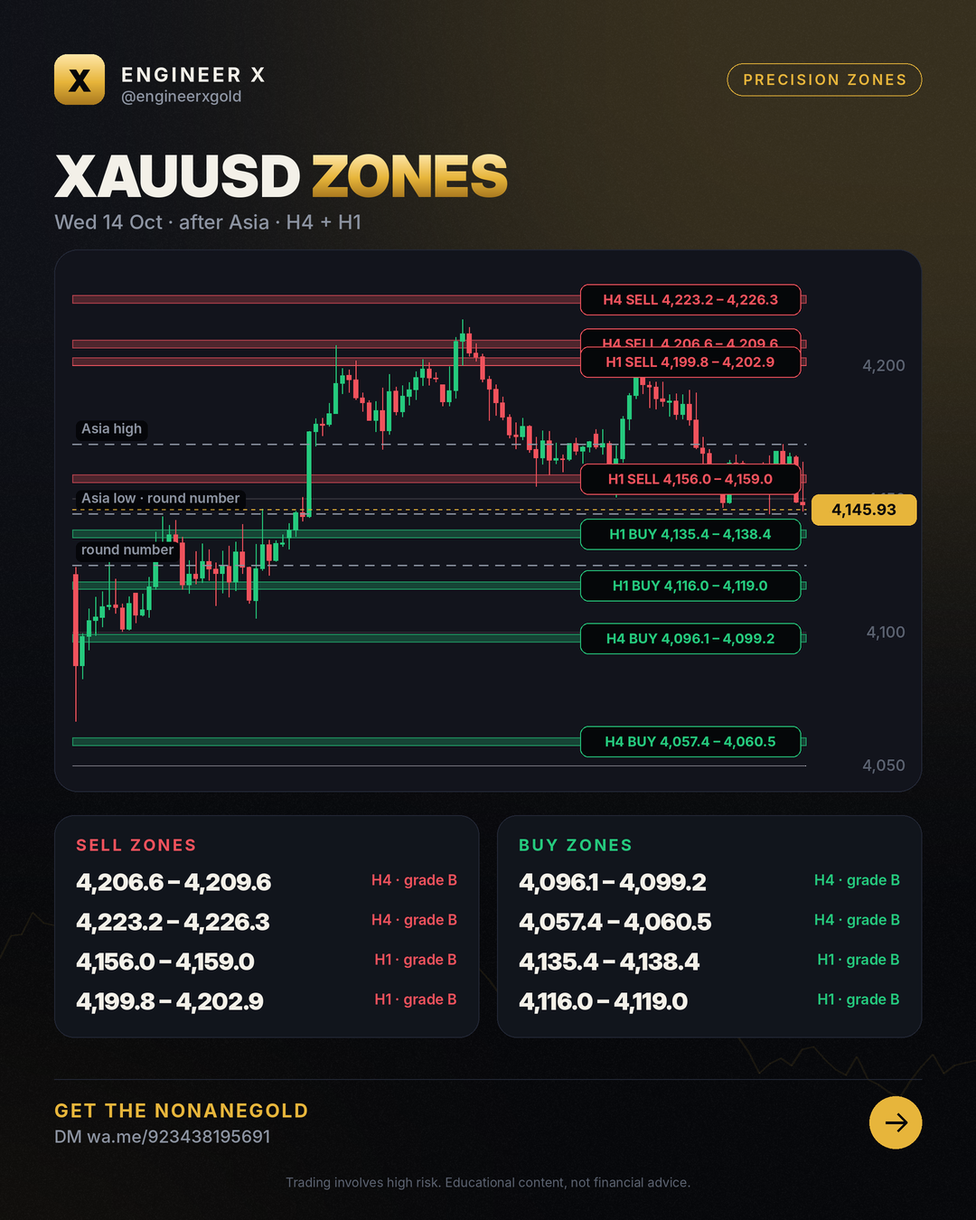
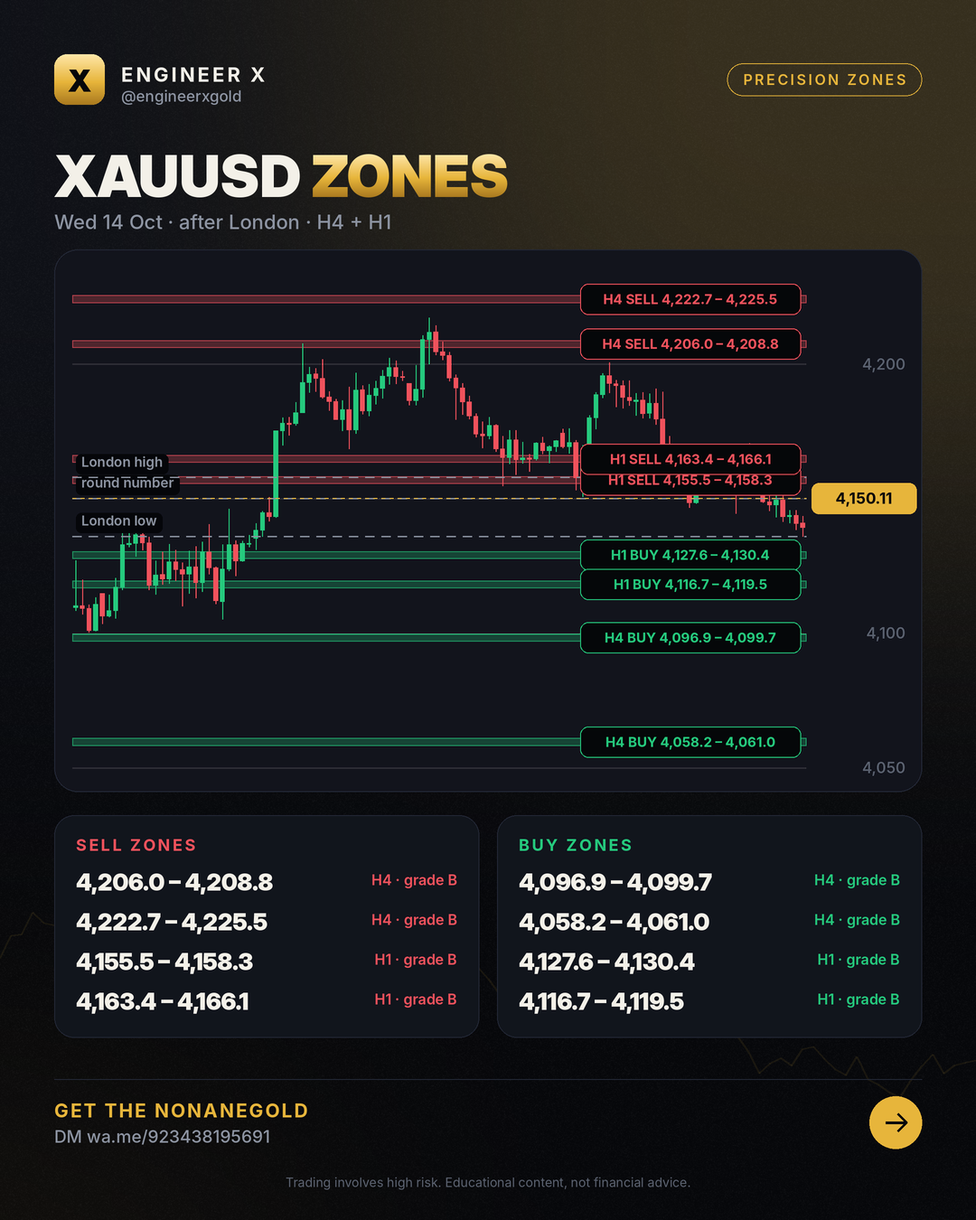
zones 2026-10-14 Wed 14 Oct · after London · H4 + H1

diff --git a/zones/2026-10-14/index.html b/zones/2026-10-14/index.html
@@ -4,7 +4,7 @@
 <meta charset="utf-8">
 <meta name="viewport" content="width=device-width,initial-scale=1">
 <title>Gold Price Today Israel – 14 Oct 2026 (H4 + H1)</title>
-<meta name="description" content="XAUUSD buy and sell zones for 2026-10-14: narrow H4 and H1 bands with invalidation levels, updated after the Asian, London and New York sessions. Price 4,145.93.">
+<meta name="description" content="XAUUSD buy and sell zones for 2026-10-14: narrow H4 and H1 bands with invalidation levels, updated after the Asian, London and New York sessions. Price 4,150.11.">
 <meta name="robots" content="index,follow,max-image-preview:large,max-snippet:-1,max-video-preview:-1">
 <meta name="author" content="Engr. M Ahmad Mehmood">
 <link rel="canonical" href="https://engineerxgold.github.io/zones/2026-10-14/">
@@ -12,7 +12,7 @@
 <link rel="apple-touch-icon" href="../../img/logo.png">
 <meta property="og:site_name" content="Engineer X">
 <meta property="og:title" content="Gold Price Today Israel – 14 Oct 2026 (H4 + H1)">
-<meta property="og:description" content="XAUUSD buy and sell zones for 2026-10-14: narrow H4 and H1 bands with invalidation levels, updated after the Asian, London and New York sessions. Price 4,145.93.">
+<meta property="og:description" content="XAUUSD buy and sell zones for 2026-10-14: narrow H4 and H1 bands with invalidation levels, updated after the Asian, London and New York sessions. Price 4,150.11.">
 <meta property="og:type" content="article">
 <meta property="og:url" content="https://engineerxgold.github.io/zones/2026-10-14/">
 <meta property="og:image" content="https://engineerxgold.github.io/zones/img/2026-10-14.png">
@@ -22,7 +22,7 @@
 <meta property="og:locale" content="en_US">
 <meta name="twitter:card" content="summary_large_image">
 <meta name="twitter:title" content="Gold Price Today Israel – 14 Oct 2026 (H4 + H1)">
-<meta name="twitter:description" content="XAUUSD buy and sell zones for 2026-10-14: narrow H4 and H1 bands with invalidation levels, updated after the Asian, London and New York sessions. Price 4,145.93.">
+<meta name="twitter:description" content="XAUUSD buy and sell zones for 2026-10-14: narrow H4 and H1 bands with invalidation levels, updated after the Asian, London and New York sessions. Price 4,150.11.">
 <meta name="twitter:image" content="https://engineerxgold.github.io/zones/img/2026-10-14.png">
 <meta name="twitter:image:alt" content="Gold Price Today Israel – 14 Oct 2026 (H4 + H1)">
 
@@ -32,7 +32,7 @@
 <link rel="preconnect" href="https://fonts.googleapis.com">
 <link rel="preconnect" href="https://fonts.gstatic.com" crossorigin>
 <link href="https://fonts.googleapis.com/css2?family=Inter:wght@400;500;600;800;900&display=swap" rel="stylesheet">
-<script type="application/ld+json">{"@context": "https://schema.org", "@type": "Organization", "@id": "https://engineerxgold.github.io/#organization", "name": "Engineer X", "url": "https://engineerxgold.github.io/", "logo": {"@type": "ImageObject", "url": "https://engineerxgold.github.io/img/logo.png", "width": 512, "height": 512}, "sameAs": ["https://t.me/engineerxgold"]}</script><script type="application/ld+json">{"@context": "https://schema.org", "@type": "Article", "headline": "Gold Price Today Israel – 14 Oct 2026 (H4 + H1)", "datePublished": "2026-10-14T08:00:00+05:00", "dateModified": "2026-10-14T12:02:42+05:00", "author": {"@type": "Person", "@id": "https://engineerxgold.github.io/about/#author", "name": "Engr. M Ahmad Mehmood", "url": "https://engineerxgold.github.io/about/", "jobTitle": "MQL5 Expert Advisor developer and gold market analyst", "worksFor": {"@id": "https://engineerxgold.github.io/#organization"}}, "publisher": {"@id": "https://engineerxgold.github.io/#organization"}, "image": "https://engineerxgold.github.io/zones/img/2026-10-14.png", "mainEntityOfPage": "https://engineerxgold.github.io/zones/2026-10-14/"}</script>
+<script type="application/ld+json">{"@context": "https://schema.org", "@type": "Organization", "@id": "https://engineerxgold.github.io/#organization", "name": "Engineer X", "url": "https://engineerxgold.github.io/", "logo": {"@type": "ImageObject", "url": "https://engineerxgold.github.io/img/logo.png", "width": 512, "height": 512}, "sameAs": ["https://t.me/engineerxgold"]}</script><script type="application/ld+json">{"@context": "https://schema.org", "@type": "Article", "headline": "Gold Price Today Israel – 14 Oct 2026 (H4 + H1)", "datePublished": "2026-10-14T08:00:00+05:00", "dateModified": "2026-10-14T17:28:14+05:00", "author": {"@type": "Person", "@id": "https://engineerxgold.github.io/about/#author", "name": "Engr. M Ahmad Mehmood", "url": "https://engineerxgold.github.io/about/", "jobTitle": "MQL5 Expert Advisor developer and gold market analyst", "worksFor": {"@id": "https://engineerxgold.github.io/#organization"}}, "publisher": {"@id": "https://engineerxgold.github.io/#organization"}, "image": "https://engineerxgold.github.io/zones/img/2026-10-14.png", "mainEntityOfPage": "https://engineerxgold.github.io/zones/2026-10-14/"}</script>
 
 <style>
 :root{--gold:#E7B53B;--gold-hi:#FFE7A8;--bg:#07080B;--bg2:#0E1016;--panel:#12151D;--line:#232836;--green:#25C97D;--red:#F0525C;--text:#F3F0E8;--muted:#8C93A1}
@@ -101,7 +101,7 @@ footer .fl a{color:var(--muted);margin-right:16px}
 <div class="wrap">
 <nav><a class="logo" href="../../"><b>X</b>Engineer X</a>
 <div class="links"><a href="../../zones/">Daily Zones</a><a href="../../blog/">Learn</a><a href="../../ea/">Gold EA</a><a href="../../about/">About</a><a class="cta" href="https://wa.me/923438195691">Get the EA</a></div></nav>
-<article><p class="crumbs"><a href="../../">Home</a> › <a href="../">Zones</a> › 2026-10-14</p><h1>Gold Price Today Israel – 14 Oct 2026 (H4 + H1)</h1><p class="byline">Wed 14 Oct · after Asia · H4 + H1 · by Engr. M Ahmad Mehmood</p><img src="../img/2026-10-14.png" alt="XAUUSD zone map 2026-10-14" width="1080" height="1350" loading="eager"><h2>Zones</h2><div style="overflow-x:auto"><table style="width:100%;border-collapse:collapse;font-size:15px"><tr><th align=left>Zone</th><th align=left>Price band</th><th>Grade</th><th align=left>Invalid</th><th align=left>Why</th></tr><tr><td>H4 sell</td><td><b>4,206.55 – 4,209.56</b></td><td>B</td><td>above 4,215.57</td><td>beyond H4 swing high + previous day high (stops rest there; sweeps often end here)</td></tr><tr><td>H4 sell</td><td><b>4,223.25 – 4,226.26</b></td><td>B</td><td>above 4,232.27</td><td>beyond H4 swing high (stops rest there; sweeps often end here)</td></tr><tr><td>H1 sell</td><td><b>4,156.02 – 4,159.03</b></td><td>B</td><td>above 4,165.04</td><td>beyond round number (stops rest there; sweeps often end here)</td></tr><tr><td>H1 sell</td><td><b>4,199.84 – 4,202.85</b></td><td>B</td><td>above 4,208.86</td><td>beyond yesterday&#x27;s London high + yesterday&#x27;s New York high (stops rest there; sweeps often end here)</td></tr><tr><td>H1 buy</td><td><b>4,135.35 – 4,138.36</b></td><td>B</td><td>below 4,129.34</td><td>beyond Asia low (stops rest there; sweeps often end here)</td></tr><tr><td>H1 buy</td><td><b>4,115.97 – 4,118.98</b></td><td>B</td><td>below 4,109.96</td><td>beyond round number (stops rest there; sweeps often end here)</td></tr><tr><td>H4 buy</td><td><b>4,096.15 – 4,099.16</b></td><td>B</td><td>below 4,090.14</td><td>beyond H4 swing low (stops rest there; sweeps often end here)</td></tr><tr><td>H4 buy</td><td><b>4,057.45 – 4,060.46</b></td><td>B</td><td>below 4,051.44</td><td>beyond H4 swing low (stops rest there; sweeps often end here)</td></tr></table></div><h2>How to read this map</h2><p>Bands are where price is expected to react; they are not entries. An hourly close beyond the invalidation price ends the zone. Obvious highs and lows (listed as liquidity) are often swept first, so our zones sit just beyond them.</p><div class="ctabox"><h3>🤖 Trade the zones with the NonaneGold</h3><p>Free signals group access + setup help Message us and we will help you set it up.</p><div class="btns"><a class="btn gold" href="https://wa.me/923438195691">Get the EA on Telegram</a><a class="btn ghost" href="../../ea/">About the EA</a></div></div></article>
+<article><p class="crumbs"><a href="../../">Home</a> › <a href="../">Zones</a> › 2026-10-14</p><h1>Gold Price Today Israel – 14 Oct 2026 (H4 + H1)</h1><p class="byline">Wed 14 Oct · after London · H4 + H1 · by Engr. M Ahmad Mehmood</p><img src="../img/2026-10-14.png" alt="XAUUSD zone map 2026-10-14" width="1080" height="1350" loading="eager"><h2>Zones</h2><div style="overflow-x:auto"><table style="width:100%;border-collapse:collapse;font-size:15px"><tr><th align=left>Zone</th><th align=left>Price band</th><th>Grade</th><th align=left>Invalid</th><th align=left>Why</th></tr><tr><td>H4 sell</td><td><b>4,206.04 – 4,208.79</b></td><td>B</td><td>above 4,214.30</td><td>beyond H4 swing high + previous day high (stops rest there; sweeps often end here)</td></tr><tr><td>H4 sell</td><td><b>4,222.74 – 4,225.49</b></td><td>B</td><td>above 4,231.00</td><td>beyond H4 swing high (stops rest there; sweeps often end here)</td></tr><tr><td>H1 sell</td><td><b>4,155.51 – 4,158.26</b></td><td>B</td><td>above 4,163.77</td><td>beyond round number (stops rest there; sweeps often end here)</td></tr><tr><td>H1 sell</td><td><b>4,163.35 – 4,166.10</b></td><td>B</td><td>above 4,171.61</td><td>beyond London high (stops rest there; sweeps often end here)</td></tr><tr><td>H1 buy</td><td><b>4,127.65 – 4,130.40</b></td><td>B</td><td>below 4,122.14</td><td>beyond London low (stops rest there; sweeps often end here)</td></tr><tr><td>H1 buy</td><td><b>4,116.74 – 4,119.49</b></td><td>B</td><td>below 4,111.23</td><td>beyond round number (stops rest there; sweeps often end here)</td></tr><tr><td>H4 buy</td><td><b>4,096.92 – 4,099.67</b></td><td>B</td><td>below 4,091.41</td><td>beyond H4 swing low (stops rest there; sweeps often end here)</td></tr><tr><td>H4 buy</td><td><b>4,058.22 – 4,060.97</b></td><td>B</td><td>below 4,052.71</td><td>beyond H4 swing low (stops rest there; sweeps often end here)</td></tr></table></div><h2>How to read this map</h2><p>Bands are where price is expected to react; they are not entries. An hourly close beyond the invalidation price ends the zone. Obvious highs and lows (listed as liquidity) are often swept first, so our zones sit just beyond them.</p><div class="ctabox"><h3>🤖 Trade the zones with the NonaneGold</h3><p>Free signals group access + setup help Message us and we will help you set it up.</p><div class="btns"><a class="btn gold" href="https://wa.me/923438195691">Get the EA on Telegram</a><a class="btn ghost" href="../../ea/">About the EA</a></div></div></article>
 <footer>
 <div class="warn"><b>Risk warning:</b> Trading gold, forex and CFDs carries a high risk of losing money and is not suitable for everyone. Past results do not guarantee future results. Everything on this site is educational and not financial advice. We are an introducing partner of our broker and may earn a commission on accounts opened through our link.</div>
 <p class="fl" style="margin-top:18px"><a href="../../about/">About &amp; methodology</a><a href="../../privacy.html">Privacy</a><a href="../../terms.html">Terms &amp; risk disclosure</a><a href="../../feed.xml">RSS</a><a href="https://t.me/engineerxgold">Telegram</a></p>

diff --git a/zones/index.html b/zones/index.html
@@ -4,7 +4,7 @@
 <meta charset="utf-8">
 <meta name="viewport" content="width=device-width,initial-scale=1">
 <title>XAUUSD Zones Today – Buy &amp; Sell Zones (H4, H1) | Engineer X</title>
-<meta name="description" content="XAUUSD buy and sell zones for 2026-10-14: narrow H4 and H1 bands with invalidation levels, updated after the Asian, London and New York sessions. Price 4,145.93.">
+<meta name="description" content="XAUUSD buy and sell zones for 2026-10-14: narrow H4 and H1 bands with invalidation levels, updated after the Asian, London and New York sessions. Price 4,150.11.">
 <meta name="robots" content="index,follow,max-image-preview:large,max-snippet:-1,max-video-preview:-1">
 <meta name="author" content="Engr. M Ahmad Mehmood">
 <link rel="canonical" href="https://engineerxgold.github.io/zones/">
@@ -12,7 +12,7 @@
 <link rel="apple-touch-icon" href="../img/logo.png">
 <meta property="og:site_name" content="Engineer X">
 <meta property="og:title" content="XAUUSD Zones Today – Buy &amp; Sell Zones (H4, H1) | Engineer X">
-<meta property="og:description" content="XAUUSD buy and sell zones for 2026-10-14: narrow H4 and H1 bands with invalidation levels, updated after the Asian, London and New York sessions. Price 4,145.93.">
+<meta property="og:description" content="XAUUSD buy and sell zones for 2026-10-14: narrow H4 and H1 bands with invalidation levels, updated after the Asian, London and New York sessions. Price 4,150.11.">
 <meta property="og:type" content="website">
 <meta property="og:url" content="https://engineerxgold.github.io/zones/">
 <meta property="og:image" content="https://engineerxgold.github.io/zones/img/2026-10-14.png">
@@ -22,7 +22,7 @@
 <meta property="og:locale" content="en_US">
 <meta name="twitter:card" content="summary_large_image">
 <meta name="twitter:title" content="XAUUSD Zones Today – Buy &amp; Sell Zones (H4, H1) | Engineer X">
-<meta name="twitter:description" content="XAUUSD buy and sell zones for 2026-10-14: narrow H4 and H1 bands with invalidation levels, updated after the Asian, London and New York sessions. Price 4,145.93.">
+<meta name="twitter:description" content="XAUUSD buy and sell zones for 2026-10-14: narrow H4 and H1 bands with invalidation levels, updated after the Asian, London and New York sessions. Price 4,150.11.">
 <meta name="twitter:image" content="https://engineerxgold.github.io/zones/img/2026-10-14.png">
 <meta name="twitter:image:alt" content="XAUUSD Zones Today – Buy &amp; Sell Zones (H4, H1) | Engineer X">
 
@@ -101,7 +101,7 @@ footer .fl a{color:var(--muted);margin-right:16px}
 <div class="wrap">
 <nav><a class="logo" href="../"><b>X</b>Engineer X</a>
 <div class="links"><a href="../zones/">Daily Zones</a><a href="../blog/">Learn</a><a href="../ea/">Gold EA</a><a href="../about/">About</a><a class="cta" href="https://wa.me/923438195691">Get the EA</a></div></nav>
-<section class="hero"><span class="chip">Updated Wed 14 Oct · after Asia · H4 + H1</span><h1>XAUUSD <span class="gold">precision zones</span></h1><p>XAUUSD buy and sell zones for 2026-10-14: narrow H4 and H1 bands with invalidation levels, updated after the Asian, London and New York sessions. Price 4,145.93.</p></section><img src="img/2026-10-14.png" alt="Latest XAUUSD zone map" width="1080" height="1350"><section><h2>Current zones</h2><div style="overflow-x:auto"><table style="width:100%;border-collapse:collapse;font-size:15px"><tr><th align=left>Zone</th><th align=left>Price band</th><th>Grade</th><th align=left>Invalid</th><th align=left>Why</th></tr><tr><td>H4 sell</td><td><b>4,206.55 – 4,209.56</b></td><td>B</td><td>above 4,215.57</td><td>beyond H4 swing high + previous day high (stops rest there; sweeps often end here)</td></tr><tr><td>H4 sell</td><td><b>4,223.25 – 4,226.26</b></td><td>B</td><td>above 4,232.27</td><td>beyond H4 swing high (stops rest there; sweeps often end here)</td></tr><tr><td>H1 sell</td><td><b>4,156.02 – 4,159.03</b></td><td>B</td><td>above 4,165.04</td><td>beyond round number (stops rest there; sweeps often end here)</td></tr><tr><td>H1 sell</td><td><b>4,199.84 – 4,202.85</b></td><td>B</td><td>above 4,208.86</td><td>beyond yesterday&#x27;s London high + yesterday&#x27;s New York high (stops rest there; sweeps often end here)</td></tr><tr><td>H1 buy</td><td><b>4,135.35 – 4,138.36</b></td><td>B</td><td>below 4,129.34</td><td>beyond Asia low (stops rest there; sweeps often end here)</td></tr><tr><td>H1 buy</td><td><b>4,115.97 – 4,118.98</b></td><td>B</td><td>below 4,109.96</td><td>beyond round number (stops rest there; sweeps often end here)</td></tr><tr><td>H4 buy</td><td><b>4,096.15 – 4,099.16</b></td><td>B</td><td>below 4,090.14</td><td>beyond H4 swing low (stops rest there; sweeps often end here)</td></tr><tr><td>H4 buy</td><td><b>4,057.45 – 4,060.46</b></td><td>B</td><td>below 4,051.44</td><td>beyond H4 swing low (stops rest there; sweeps often end here)</td></tr></table></div></section><section><h2>Honest scorecard</h2><div class="grid"><div class="card"><div class="n">20</div><p>zones published (30 days)</p></div><div class="card"><div class="n">1</div><p>held (moved 1 hourly ATR away)</p></div><div class="card"><div class="n">0</div><p>broke (hourly close beyond invalidation)</p></div><div class="card"><div class="n">100%</div><p>hold rate of decided zones</p></div></div></section><div class="ctabox"><h3>🤖 Trade the zones with the NonaneGold</h3><p>Free signals group access + setup help Message us and we will help you set it up.</p><div class="btns"><a class="btn gold" href="https://wa.me/923438195691">Get the EA on Telegram</a><a class="btn ghost" href="../ea/">About the EA</a></div></div><section><h2>Archive</h2><div class="grid posts"><a class="card" href="2026-10-14/"><span class="date">2026-10-14</span><h3>XAUUSD zones 2026-10-14</h3></a><a class="card" href="2026-10-13/"><span class="date">2026-10-13</span><h3>XAUUSD zones 2026-10-13</h3></a></div></section>
+<section class="hero"><span class="chip">Updated Wed 14 Oct · after London · H4 + H1</span><h1>XAUUSD <span class="gold">precision zones</span></h1><p>XAUUSD buy and sell zones for 2026-10-14: narrow H4 and H1 bands with invalidation levels, updated after the Asian, London and New York sessions. Price 4,150.11.</p></section><img src="img/2026-10-14.png" alt="Latest XAUUSD zone map" width="1080" height="1350"><section><h2>Current zones</h2><div style="overflow-x:auto"><table style="width:100%;border-collapse:collapse;font-size:15px"><tr><th align=left>Zone</th><th align=left>Price band</th><th>Grade</th><th align=left>Invalid</th><th align=left>Why</th></tr><tr><td>H4 sell</td><td><b>4,206.04 – 4,208.79</b></td><td>B</td><td>above 4,214.30</td><td>beyond H4 swing high + previous day high (stops rest there; sweeps often end here)</td></tr><tr><td>H4 sell</td><td><b>4,222.74 – 4,225.49</b></td><td>B</td><td>above 4,231.00</td><td>beyond H4 swing high (stops rest there; sweeps often end here)</td></tr><tr><td>H1 sell</td><td><b>4,155.51 – 4,158.26</b></td><td>B</td><td>above 4,163.77</td><td>beyond round number (stops rest there; sweeps often end here)</td></tr><tr><td>H1 sell</td><td><b>4,163.35 – 4,166.10</b></td><td>B</td><td>above 4,171.61</td><td>beyond London high (stops rest there; sweeps often end here)</td></tr><tr><td>H1 buy</td><td><b>4,127.65 – 4,130.40</b></td><td>B</td><td>below 4,122.14</td><td>beyond London low (stops rest there; sweeps often end here)</td></tr><tr><td>H1 buy</td><td><b>4,116.74 – 4,119.49</b></td><td>B</td><td>below 4,111.23</td><td>beyond round number (stops rest there; sweeps often end here)</td></tr><tr><td>H4 buy</td><td><b>4,096.92 – 4,099.67</b></td><td>B</td><td>below 4,091.41</td><td>beyond H4 swing low (stops rest there; sweeps often end here)</td></tr><tr><td>H4 buy</td><td><b>4,058.22 – 4,060.97</b></td><td>B</td><td>below 4,052.71</td><td>beyond H4 swing low (stops rest there; sweeps often end here)</td></tr></table></div></section><section><h2>Honest scorecard</h2><div class="grid"><div class="card"><div class="n">28</div><p>zones published (30 days)</p></div><div class="card"><div class="n">7</div><p>held (moved 1 hourly ATR away)</p></div><div class="card"><div class="n">0</div><p>broke (hourly close beyond invalidation)</p></div><div class="card"><div class="n">100%</div><p>hold rate of decided zones</p></div></div></section><div class="ctabox"><h3>🤖 Trade the zones with the NonaneGold</h3><p>Free signals group access + setup help Message us and we will help you set it up.</p><div class="btns"><a class="btn gold" href="https://wa.me/923438195691">Get the EA on Telegram</a><a class="btn ghost" href="../ea/">About the EA</a></div></div><section><h2>Archive</h2><div class="grid posts"><a class="card" href="2026-10-14/"><span class="date">2026-10-14</span><h3>XAUUSD zones 2026-10-14</h3></a><a class="card" href="2026-10-13/"><span class="date">2026-10-13</span><h3>XAUUSD zones 2026-10-13</h3></a></div></section>
 <footer>
 <div class="warn"><b>Risk warning:</b> Trading gold, forex and CFDs carries a high risk of losing money and is not suitable for everyone. Past results do not guarantee future results. Everything on this site is educational and not financial advice. We are an introducing partner of our broker and may earn a commission on accounts opened through our link.</div>
 <p class="fl" style="margin-top:18px"><a href="../about/">About &amp; methodology</a><a href="../privacy.html">Privacy</a><a href="../terms.html">Terms &amp; risk disclosure</a><a href="../feed.xml">RSS</a><a href="https://t.me/engineerxgold">Telegram</a></p>

diff --git a/index.html b/index.html
@@ -101,7 +101,7 @@ footer .fl a{color:var(--muted);margin-right:16px}
 <div class="wrap">
 <nav><a class="logo" href="./"><b>X</b>Engineer X</a>
 <div class="links"><a href="./zones/">Daily Zones</a><a href="./blog/">Learn</a><a href="./ea/">Gold EA</a><a href="./about/">About</a><a class="cta" href="https://wa.me/923438195691">Get the EA</a></div></nav>
-<section class="hero"><span class="chip">XAUUSD · H4 + H1 · every session</span><h1>Gold <span class="gold">precision zones</span>, updated after every session</h1><p>Narrow buy and sell zones with clear invalidation, a scorecard of every result, and the NonaneGold for traders who want it automated.</p><div class="btns"><a class="btn gold" href="zones/">See today's zones</a><a class="btn ghost" href="https://wa.me/923438195691">Get the EA</a></div></section><section><h2>Latest map Wed 14 Oct · after Asia · H4 + H1</h2><img src="zones/img/2026-10-14.png" alt="Latest XAUUSD zones" width="1080" height="1350"></section><div class="ctabox"><h3>🤖 Trade the zones with the NonaneGold</h3><p>Free signals group access + setup help Message us and we will help you set it up.</p><div class="btns"><a class="btn gold" href="https://wa.me/923438195691">Get the EA on Telegram</a><a class="btn ghost" href="ea/">About the EA</a></div></div><section><h2>Learn</h2><div class="grid posts"><a class="card" href="blog/gold-supply-and-demand-zones-h4-h1-trading-map/"><span class="date">2026-10-14</span><h3>Gold Supply and Demand Zones: H4 &amp; H1 Trading Map</h3></a><a class="card" href="blog/gold-trading-strategy-for-zones-and-liquidity-in-xauusd/"><span class="date">2026-10-13</span><h3>Gold trading strategy for zones and liquidity in XAUUSD</h3></a><a class="card" href="blog/stop-loss-ke-baghair-trading-ticket-bina-safar/"><span class="date">2026-10-07</span><h3>Stop loss ke baghair trading = ticket bina safar</h3></a><a class="card" href="blog/gold-ke-3-sab-se-active-sessions/"><span class="date">2026-10-07</span><h3>Gold ke 3 sab se active sessions</h3></a><a class="card" href="blog/the-math-of-recovery/"><span class="date">2026-10-08</span><h3>The math of recovery</h3></a><a class="card" href="blog/xauusd-entry-confirmation-how-to-trade-gold-with-ict/"><span class="date">2026-10-10</span><h3>XAUUSD Entry Confirmation: How to Trade Gold with ICT</h3></a></div></section><section><h2>FAQ</h2><details><summary>What is a precision zone?</summary><p>A narrow price band (about a quarter of the hourly range) where gold started a strong move or where a sweep of obvious liquidity usually ends. Each zone has an invalidation price.</p></details><details><summary>How often are the zones updated?</summary><p>A daily plan at the Asian open, then after the Asian, London and New York sessions.</p></details><details><summary>Are these trade signals?</summary><p>No. Zones are areas to watch. Wait for your own confirmation and manage risk.</p></details><details><summary>How do I get the Gold EA?</summary><p>Message us on Telegram or WhatsApp; we answer and help with the setup.</p></details></section>
+<section class="hero"><span class="chip">XAUUSD · H4 + H1 · every session</span><h1>Gold <span class="gold">precision zones</span>, updated after every session</h1><p>Narrow buy and sell zones with clear invalidation, a scorecard of every result, and the NonaneGold for traders who want it automated.</p><div class="btns"><a class="btn gold" href="zones/">See today's zones</a><a class="btn ghost" href="https://wa.me/923438195691">Get the EA</a></div></section><section><h2>Latest map Wed 14 Oct · after London · H4 + H1</h2><img src="zones/img/2026-10-14.png" alt="Latest XAUUSD zones" width="1080" height="1350"></section><div class="ctabox"><h3>🤖 Trade the zones with the NonaneGold</h3><p>Free signals group access + setup help Message us and we will help you set it up.</p><div class="btns"><a class="btn gold" href="https://wa.me/923438195691">Get the EA on Telegram</a><a class="btn ghost" href="ea/">About the EA</a></div></div><section><h2>Learn</h2><div class="grid posts"><a class="card" href="blog/gold-supply-and-demand-zones-h4-h1-trading-map/"><span class="date">2026-10-14</span><h3>Gold Supply and Demand Zones: H4 &amp; H1 Trading Map</h3></a><a class="card" href="blog/gold-trading-strategy-for-zones-and-liquidity-in-xauusd/"><span class="date">2026-10-13</span><h3>Gold trading strategy for zones and liquidity in XAUUSD</h3></a><a class="card" href="blog/stop-loss-ke-baghair-trading-ticket-bina-safar/"><span class="date">2026-10-07</span><h3>Stop loss ke baghair trading = ticket bina safar</h3></a><a class="card" href="blog/gold-ke-3-sab-se-active-sessions/"><span class="date">2026-10-07</span><h3>Gold ke 3 sab se active sessions</h3></a><a class="card" href="blog/the-math-of-recovery/"><span class="date">2026-10-08</span><h3>The math of recovery</h3></a><a class="card" href="blog/xauusd-entry-confirmation-how-to-trade-gold-with-ict/"><span class="date">2026-10-10</span><h3>XAUUSD Entry Confirmation: How to Trade Gold with ICT</h3></a></div></section><section><h2>FAQ</h2><details><summary>What is a precision zone?</summary><p>A narrow price band (about a quarter of the hourly range) where gold started a strong move or where a sweep of obvious liquidity usually ends. Each zone has an invalidation price.</p></details><details><summary>How often are the zones updated?</summary><p>A daily plan at the Asian open, then after the Asian, London and New York sessions.</p></details><details><summary>Are these trade signals?</summary><p>No. Zones are areas to watch. Wait for your own confirmation and manage risk.</p></details><details><summary>How do I get the Gold EA?</summary><p>Message us on Telegram or WhatsApp; we answer and help with the setup.</p></details></section>
 <footer>
 <div class="warn"><b>Risk warning:</b> Trading gold, forex and CFDs carries a high risk of losing money and is not suitable for everyone. Past results do not guarantee future results. Everything on this site is educational and not financial advice. We are an introducing partner of our broker and may earn a commission on accounts opened through our link.</div>
 <p class="fl" style="margin-top:18px"><a href="./about/">About &amp; methodology</a><a href="./privacy.html">Privacy</a><a href="./terms.html">Terms &amp; risk disclosure</a><a href="./feed.xml">RSS</a><a href="https://t.me/engineerxgold">Telegram</a></p>
